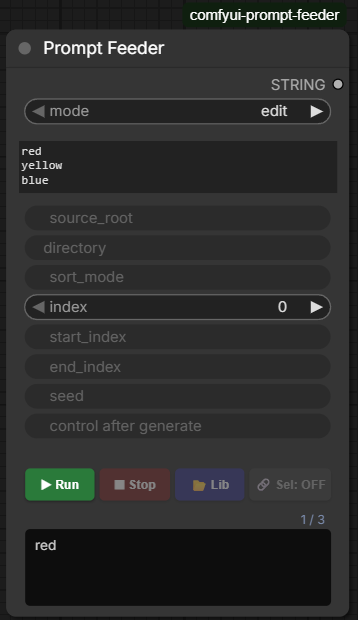
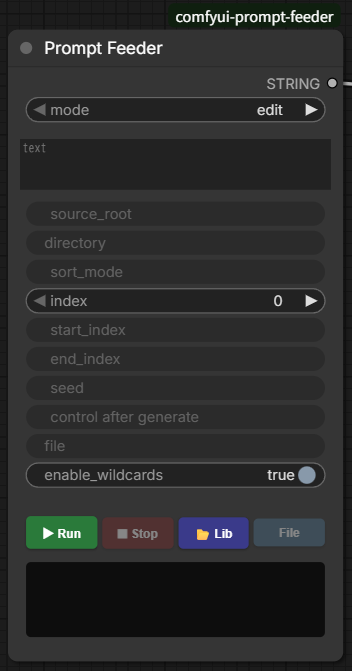
Update screenshots and thumbnail for v0.4.0 UI
Refresh edit/library screenshots and thumb.png (File/Folder button),
add single_file and prompt mode screenshots, and list them in the
READMEs (EN/JA/ZH).

diff --git a/README.ja.md b/README.ja.md
@@ -19,12 +19,22 @@
 </tr>
 <tr>
 <td align="center" width="50%">
+<img src="docs/5_node_single.png" width="320" alt="single_file mode"><br>
+③ <code>single_file</code>モード：1ファイルを単語・素材リストとして供給（ワイルドカードなし）
+</td>
+<td align="center" width="50%">
+<img src="docs/6_node_prompt.png" width="320" alt="prompt mode"><br>
+④ <code>prompt</code>モード：1ファイルを文として供給（ワイルドカード可、<code>edit</code>のファイル版）
+</td>
+</tr>
+<tr>
+<td align="center" width="50%">
 <img src="docs/3_library.png" width="320" alt="Prompt Library"><br>
-③ Prompt Library：3ペインでフォルダ・ファイルを選択／編集
+⑤ Prompt Library：3ペインでフォルダ・ファイルを選択／編集
 </td>
 <td align="center" width="50%">
 <img src="docs/4_external_paths.png" width="320" alt="External Paths"><br>
-④ External Paths：他ノードの<code>.txt</code>データを個別パス登録して流用
+⑥ External Paths：他ノードの<code>.txt</code>データを個別パス登録して流用
 </td>
 </tr>
 </table>

diff --git a/README.md b/README.md
@@ -19,12 +19,22 @@ A ComfyUI custom node that feeds text prompts from a folder one at a time. Suppo
 </tr>
 <tr>
 <td align="center" width="50%">
+<img src="docs/5_node_single.png" width="320" alt="single_file mode"><br>
+③ <code>single_file</code> mode: feed one file as a plain material/word list (no wildcards)
+</td>
+<td align="center" width="50%">
+<img src="docs/6_node_prompt.png" width="320" alt="prompt mode"><br>
+④ <code>prompt</code> mode: feed one file as sentences, wildcards available (file version of <code>edit</code>)
+</td>
+</tr>
+<tr>
+<td align="center" width="50%">
 <img src="docs/3_library.png" width="320" alt="Prompt Library"><br>
-③ Prompt Library: a 3-pane picker for browsing/editing folders and files
+⑤ Prompt Library: a 3-pane picker for browsing/editing folders and files
 </td>
 <td align="center" width="50%">
 <img src="docs/4_external_paths.png" width="320" alt="External Paths"><br>
-④ External Paths: register other node packs' <code>.txt</code> data folders for reuse
+⑥ External Paths: register other node packs' <code>.txt</code> data folders for reuse
 </td>
 </tr>
 </table>

diff --git a/README.zh.md b/README.zh.md
@@ -19,12 +19,22 @@
 </tr>
 <tr>
 <td align="center" width="50%">
+<img src="docs/5_node_single.png" width="320" alt="single_file mode"><br>
+③ <code>single_file</code> 模式：将单个文件作为单词/素材列表提供（无通配符）
+</td>
+<td align="center" width="50%">
+<img src="docs/6_node_prompt.png" width="320" alt="prompt mode"><br>
+④ <code>prompt</code> 模式：将单个文件作为句子提供，可用通配符（<code>edit</code> 的文件版）
+</td>
+</tr>
+<tr>
+<td align="center" width="50%">
 <img src="docs/3_library.png" width="320" alt="Prompt Library"><br>
-③ Prompt Library：三栏式文件夹/文件浏览与编辑
+⑤ Prompt Library：三栏式文件夹/文件浏览与编辑
 </td>
 <td align="center" width="50%">
 <img src="docs/4_external_paths.png" width="320" alt="External Paths"><br>
-④ External Paths：注册其他节点包的 <code>.txt</code> 数据文件夹以复用
+⑥ External Paths：注册其他节点包的 <code>.txt</code> 数据文件夹以复用
 </td>
 </tr>
 </table>
